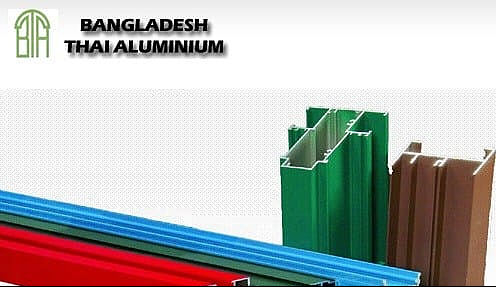
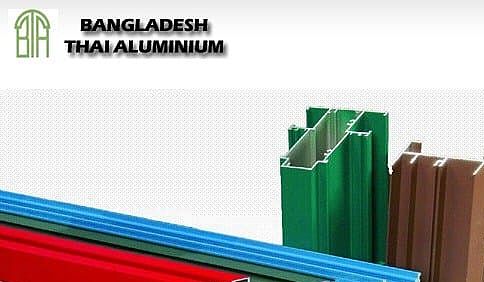
working on responsiveness

diff --git a/src/Components/Banner2/Banner2.css b/src/Components/Banner2/Banner2.css
@@ -1,6 +1,5 @@
 @import url('https://fonts.googleapis.com/css2?family=Roboto:wght@700&display=swap');
 @import url('https://fonts.googleapis.com/css2?family=Roboto+Flex:opsz,wght@8..144,300&display=swap');
-
 * {
   margin: 0;
   padding: 0;
@@ -8,7 +7,7 @@
 }
 
 .pages {
-  margin-top: 614px;
+  margin-top: 689px;
 }
 
 .navbar {
@@ -89,6 +88,40 @@
   display: none;
 }
 
+video {
+  position: absolute;
+  top: 0;
+  left: 0;
+  width: 100%;
+  height: 100%;
+  object-fit: cover;
+  opacity: 0.9;
+}
+
+.content h1{
+  position: absolute;
+  color: #fbfcf8;
+  margin-top: 210px;
+  max-width: 527px;
+  width: 100%;
+  height: 181px;
+  font-family: "Roboto", sans-serif;
+  font-size: 64px;
+  line-height: 75px;
+  background-color: #0e8f51;
+  text-shadow: 0px 2px 3px silver;
+  -webkit-background-clip: text;
+  background-clip: text;
+}
+
+.content {
+  margin-left: 101.7px;
+}
+
+.content-span {
+  margin-left: 90px;
+}
+
 .overlay {
   position: absolute;
   top: 0;
@@ -99,11 +132,26 @@
   mix-blend-mode: multiply;
 }
 
-.dropdown:hover .dropdown-content {display: block;}
+@media only screen and (max-width: 1280px){
+  .main-container {
+    width: 100%;
+  }
 
-@media screen and (max-width: 767px) {
   .pages {
-    margin-top: 480px;
+    margin-top: 550px;
+  }
+
+  .content {
+    position: relative;
+    margin-top: -90px;
+    margin-right: 209.9px;
+  }
+
+  .content h1{
+    color: #f8f8f8;
+    text-shadow: 0px 2px 3px grey;
+    -webkit-background-clip: text;
+    background-clip: text;
   }
 
   .nav-menu {
@@ -132,7 +180,7 @@
   }
 
   .nav-logo {
-    top: 0;
+    margin-top: -59.6px;
     margin-left: 270px;
   }
 

diff --git a/src/Components/Banner2/Banner2.js b/src/Components/Banner2/Banner2.js
@@ -1,4 +1,4 @@
-import { faBars } from '@fortawesome/free-solid-svg-icons';
+import { faBars, faTimes } from '@fortawesome/free-solid-svg-icons';
 import { FontAwesomeIcon } from '@fortawesome/react-fontawesome';
 import React from 'react'
 import { Link, NavLink, Route, Routes } from 'react-router-dom';
@@ -47,11 +47,11 @@ function NavBar() {
   return (
     <div>
       <div className={click ? "main-container" : ""} onClick={() => Close()} />
-
       <nav className="navbar" onClick={e => e.stopPropagation()}>
         <div className="nav-container">
           <Link exact to="/" className="nav-logo">
             <img src={logo} alt="" class="logo" />
+            <div class="content"><h1>Making Life <span class="content-span"></span>Safer Everyday</h1></div>
           </Link>
           <ul className={click ? "nav-menu active" : "nav-menu"}>
             <li className="nav-item">
@@ -119,21 +119,16 @@ function NavBar() {
               >
                 Opportunity
               </Link>
-            </li>
-
-            
+            </li>          
           </ul>
           <div className="nav-icon" onClick={handleClick}>
-            <FontAwesomeIcon icon={faBars} />
+            <FontAwesomeIcon icon={click ? faTimes : faBars} />
           </div>
         </div>
+        
       </nav>
-      <video src={videoBg} autoPlay loop muted></video>
+      <video src={videoBg} autoPlay loop muted></video>     
       <div className="overlay"></div>
-      <div>
-        <h1></h1>
-      </div>
-
     </ div>
   );
 }

diff --git a/src/Components/Banner/Banner.js b/src/Components/Banner/Banner.js
@@ -1,30 +1,11 @@
 import React from "react";
 import { Link } from "react-router-dom";
 import logo from "../../assets/banner/logo.png";
-import videoBg from "../../assets/banner/720.mp4";
-import "./Banner.css";
 
 const Banner = () => {
   return (
-    <section className="showcase">
-      <nav className="header">
-        <img src={logo} alt="" class="logo" />
-        <div className="nav-item">
-          <Link>About Us</Link>
-          <Link>Products</Link>
-          <Link>Dealers</Link>
-          <Link>Sustainability</Link>      
-          <Link>Innovation</Link>
-          <Link>Opportunity</Link>
-        </div>
-      </nav>
-      <video src={videoBg} autoPlay loop muted />
-      <div className="overlay"></div>
-      <div style={{ position: 'absolute' }}>
-        <h1 className="content">
-          <span style={{ marginRight: '89px' }}>Making Life</span><br></br>Safer Everyday
-        </h1>
-      </div>
+    <section>
+      
     </section>
   );
 };

diff --git a/src/Components/Banner/Banner.css b/src/Components/Banner/Banner.css
@@ -1,4 +1,4 @@
-@import url('https://fonts.googleapis.com/css2?family=Roboto:wght@700&display=swap');
+/* @import url('https://fonts.googleapis.com/css2?family=Roboto:wght@700&display=swap');
 * {
   margin: 0;
   padding: 0;
@@ -46,27 +46,7 @@
   background: #111;
 }
 
-video {
-  position: absolute;
-  top: 0;
-  left: 0;
-  width: 100%;
-  height: 100%;
-  object-fit: cover;
-  opacity: 0.9;
-}
-
-.overlay {
-  position: absolute;
-  top: 0;
-  left: 0;
-  width: 100%;
-  height: 100%;
-  background: #0e8f51;
-  mix-blend-mode: multiply;
-}
-
-.content {
+/* .content {
   color: rgba(255, 255, 255, 1);
   margin: auto;
   margin-right: auto;
@@ -76,7 +56,7 @@ video {
   font-family: "Roboto", sans-serif;
   font-size: 64px;
   line-height: 75px;
-}
+} */
 
 /* @media only screen and (max-width: 767px) {
   

diff --git a/src/Components/Portfolio/Holdings.js b/src/Components/Portfolio/Holdings.js
@@ -14,7 +14,7 @@ import tower11 from "../../assets/portfolio/Rectangle 15.png";
 
 function Portfolio() {
   return (
-    <div class="container">
+    <section class="container">
       <div class="heading">
         <h1>Holdings</h1>
       </div>
@@ -47,8 +47,8 @@ function Portfolio() {
         </div>
       </div>
       <li class="copyright">Bangladesh Thai Aluminium © 2012 - 2023</li>
-    </div>
+    </section>
   )
 }
 
-export default Portfolio
+export default Portfolio;

diff --git a/src/App.js b/src/App.js
@@ -1,6 +1,5 @@
 import "./App.css";
 import AboutUs from "./Components/AboutUs/AboutUs";
-import Banner from "./Components/Banner/Banner";
 import Banner2 from "./Components/Banner2/Banner2";
 import Distributors from "./Components/Distributors/Distributors";
 import Footer from "./Components/Footer/Footer";

diff --git a/src/Components/Portfolio/Holdings.css b/src/Components/Portfolio/Holdings.css
@@ -34,7 +34,7 @@ img {
     color: #314B2A;
     font-size: 14px;
     font-weight: 700;
-    font-family: 'Oxygen', sans-serif;;
+    font-family: 'Oxygen', sans-serif;
     margin-top: 69px;
     margin-right: 1014px;
 }
